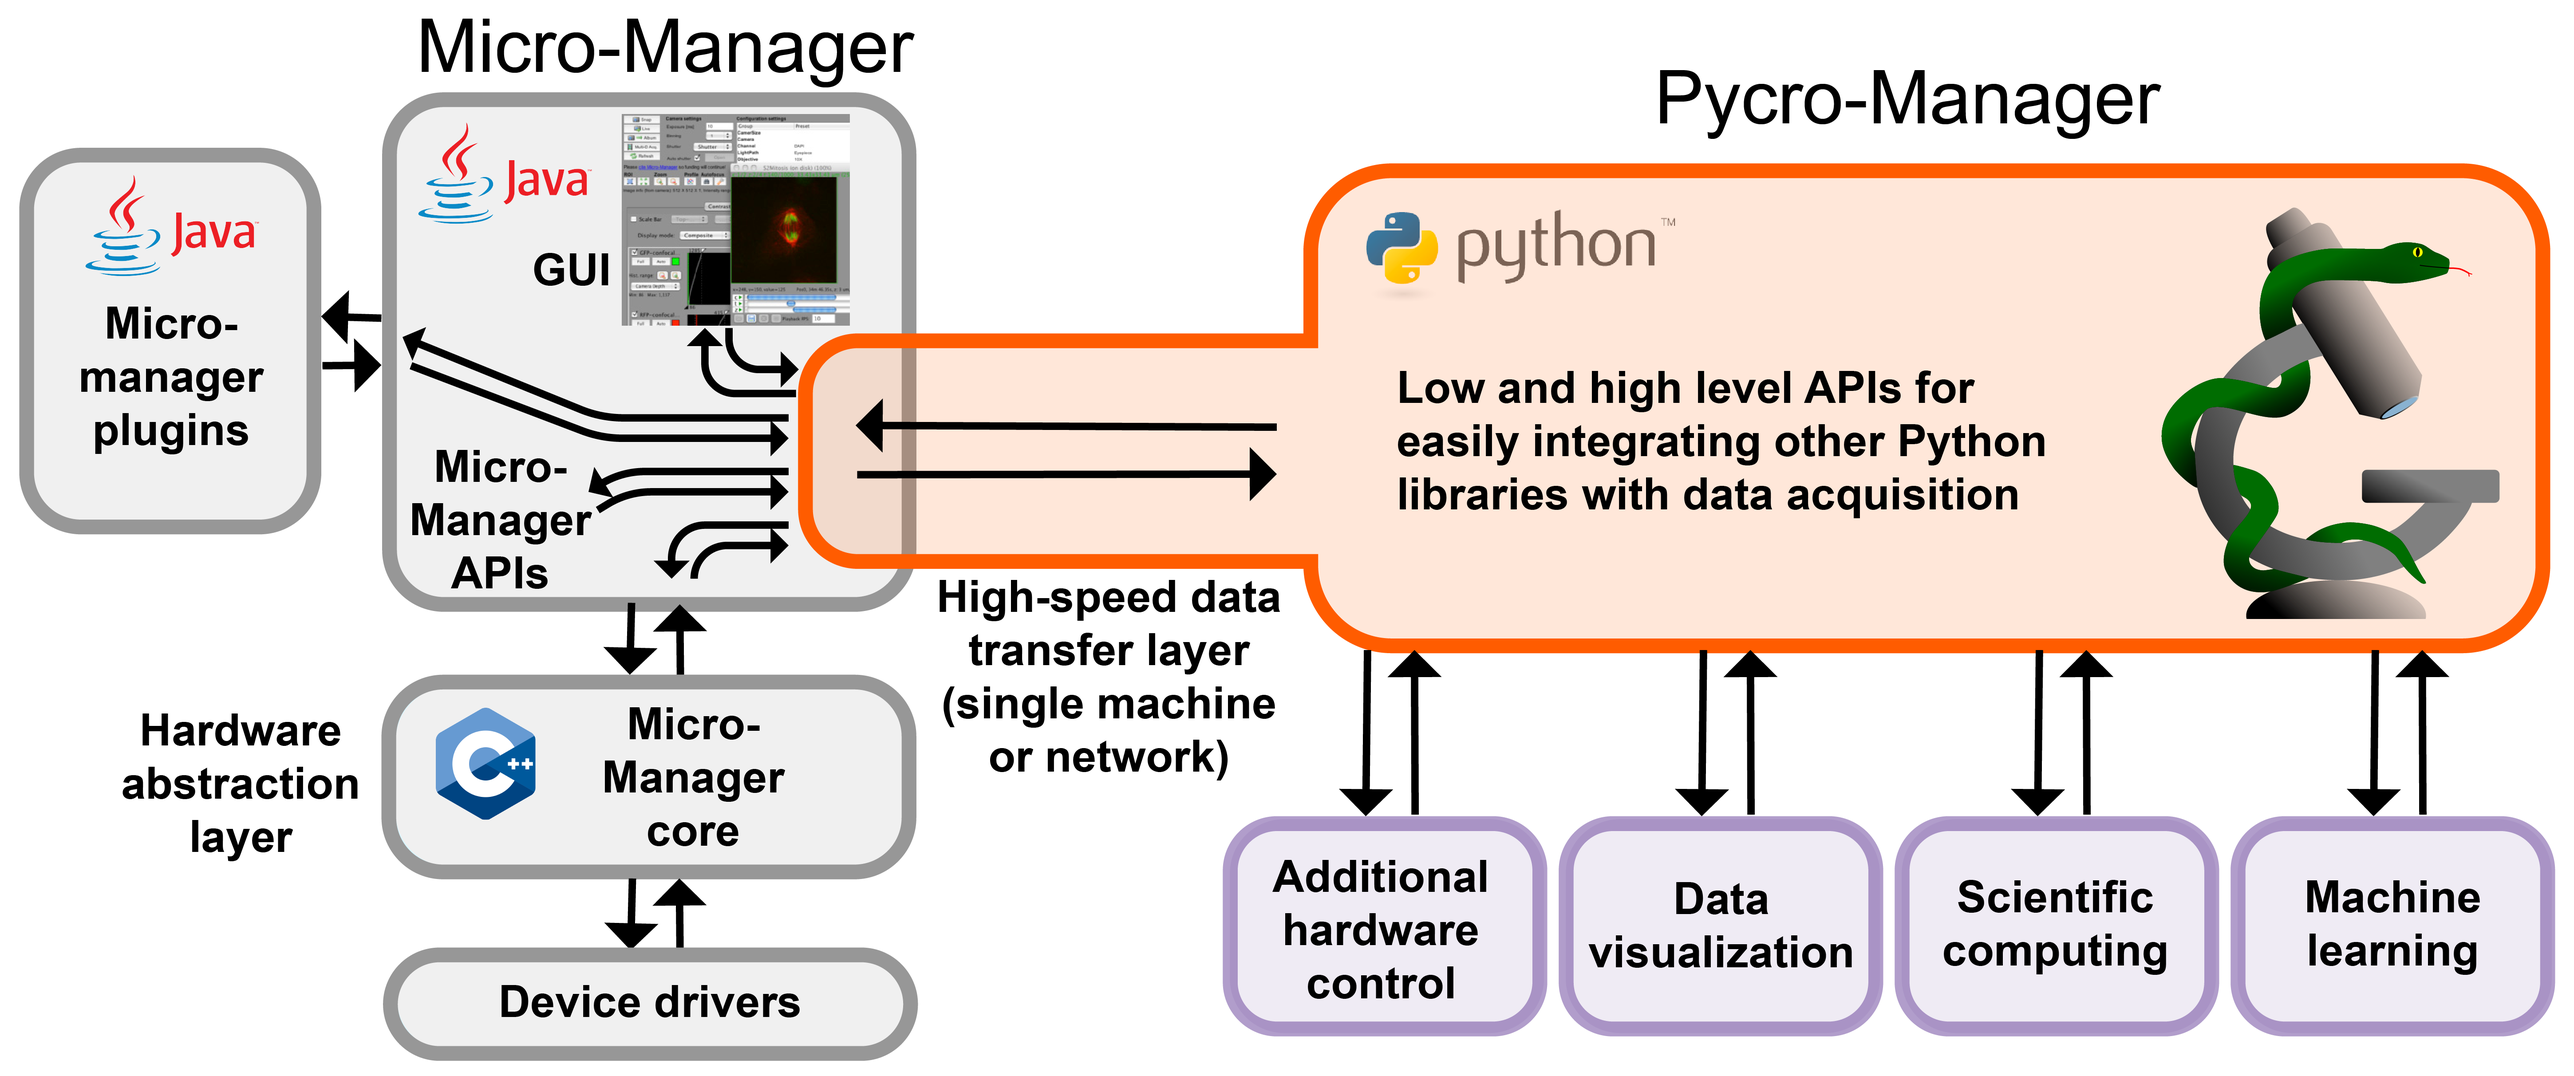
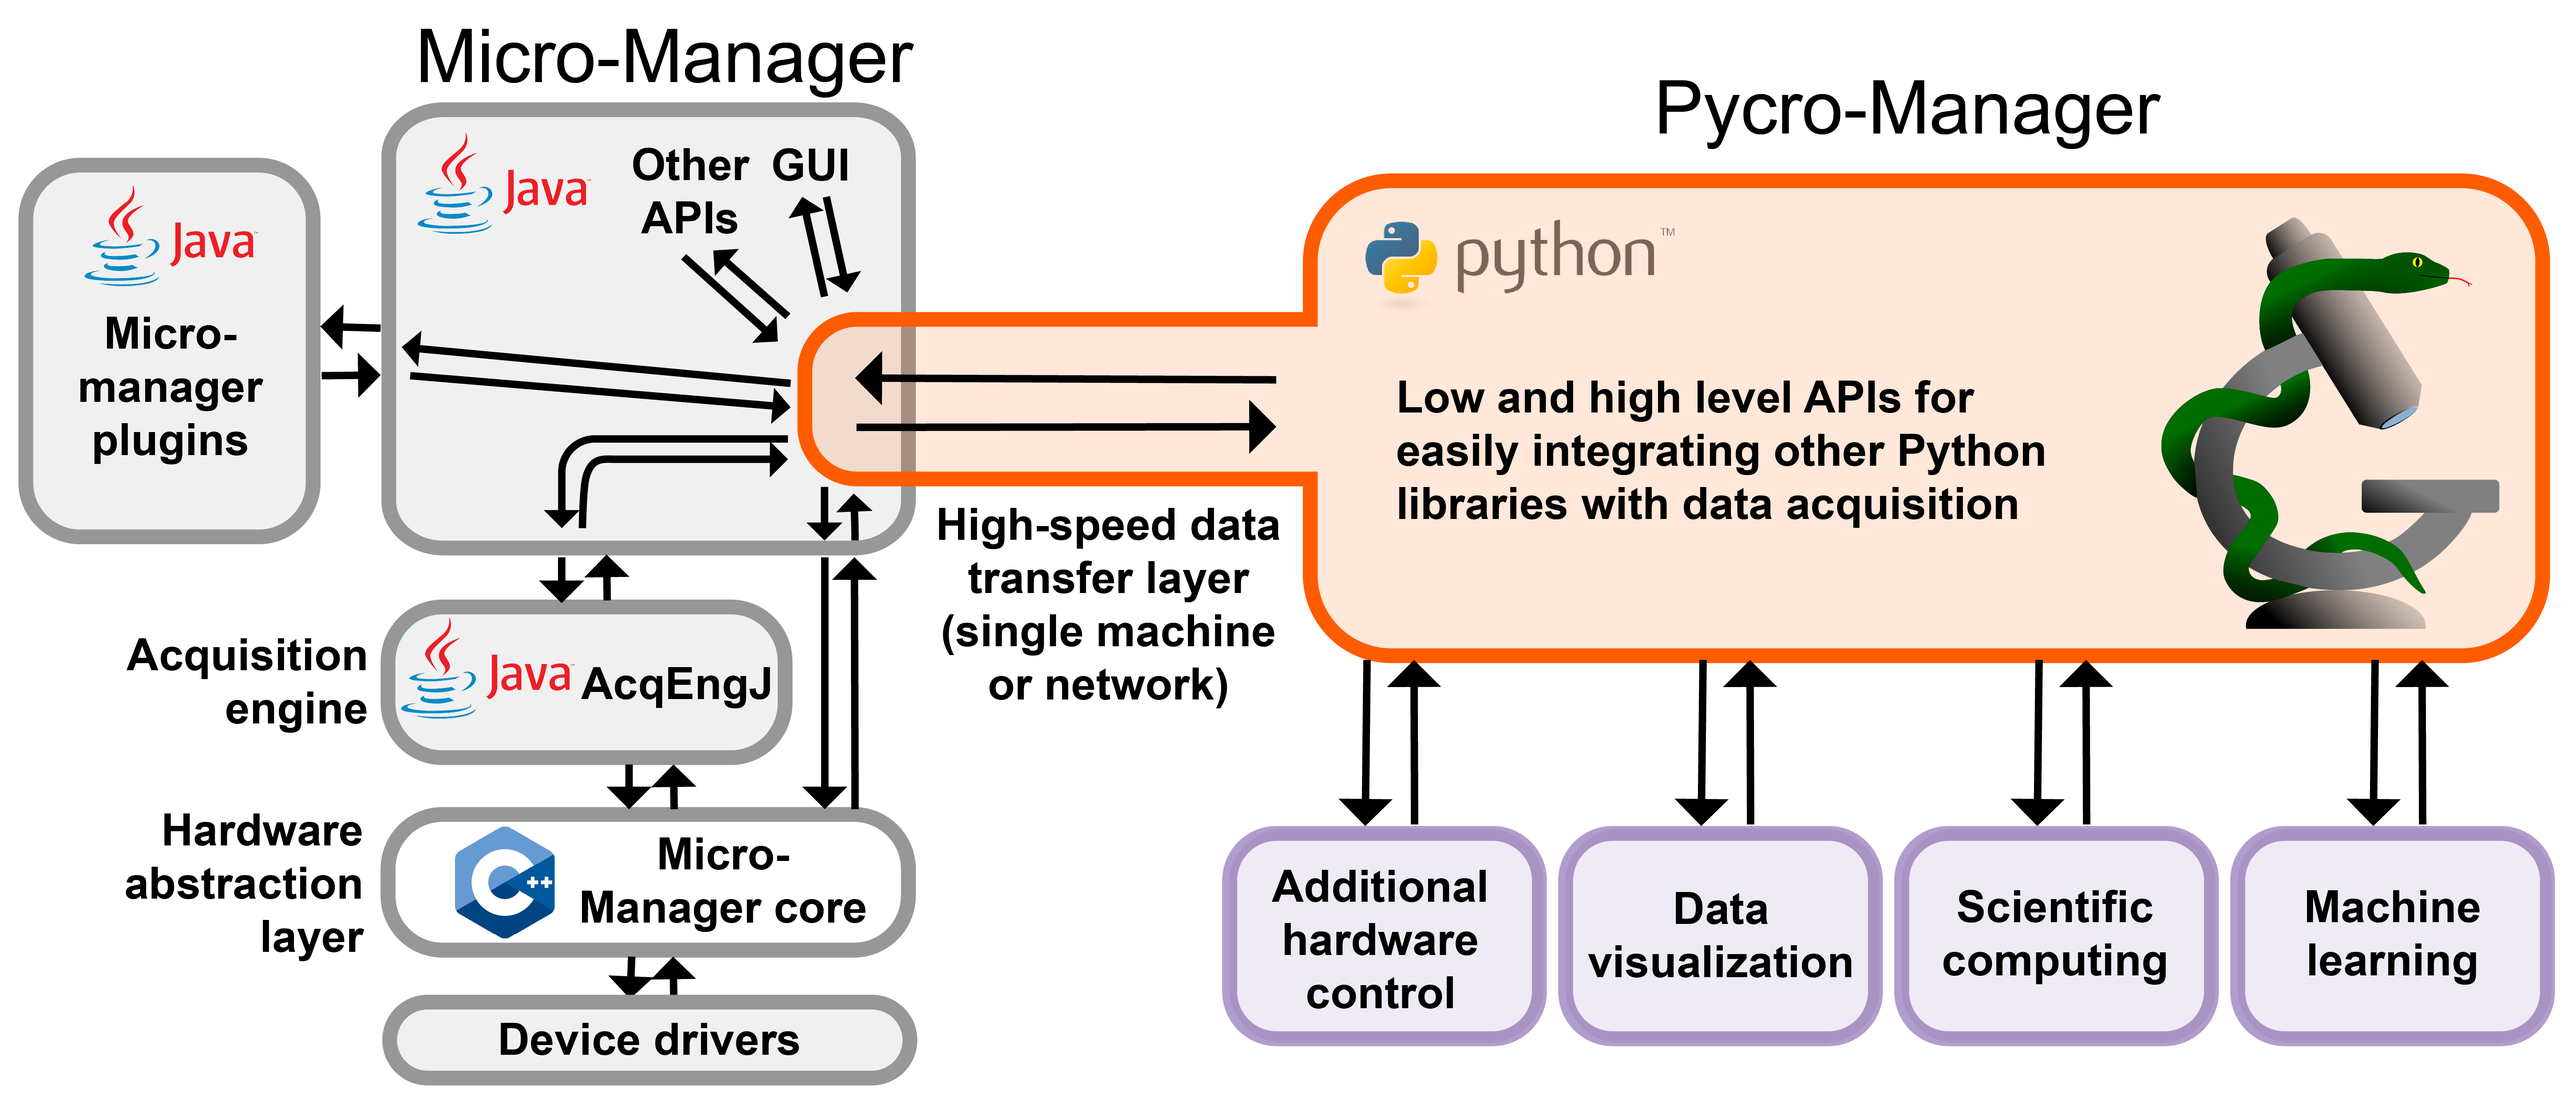
update figure in docs and update acq_hook description

diff --git a/docs/source/acq_hooks.rst b/docs/source/acq_hooks.rst
@@ -4,9 +4,9 @@
 Acquisition hooks
 ****************************************************************
 
-Acquisition hooks can be used for two main purposes: 1) Executing arbitrary code at different points within the acquisition cycle. For example, this could be used to incorporate devices outside of micro-manager into the acquisition cycle. 2) Modifying/deleting acquisition events in progress, for example to skip certain channels, or applying focus corrections on-the-fly
+Acquisition hooks can be used for several purposes: 1) Executing arbitrary code at different points within the acquisition cycle. For example, this could be used to incorporate devices outside of micro-manager into the acquisition cycle. 2) Modifying/deleting acquisition events in progress, for example to skip certain channels, or applying focus corrections on-the-fly. 3) Communcation with external devices at specific points in the acquisition cycle to enable the use of hardware TTL triggering for fast acquisitions
 
-Hooks can either be executed before the hardware updates for a particular acquisition event (a ``pre_hardware_hook``), or after the hardware updates, just before the image is captured (a ``post_hardware_hook``). 
+Hooks can either be executed before the hardware updates for a particular acquisition event (a ``pre_hardware_hook``), just after the hardware updates, just before the image is captured (a ``post_hardware_hook``), or after the camera has been instructed to take images or wait for an external trigger (a ``post_camera_hook``). 
 
 The simplest type of acquisition hook is function that takes a single argument (the current acquisition event). Pass this function to the acquisition by adding it as an argument in the constructor. This form might be used, for example, to control other hardware and have it synchronized with acquisition.
 
